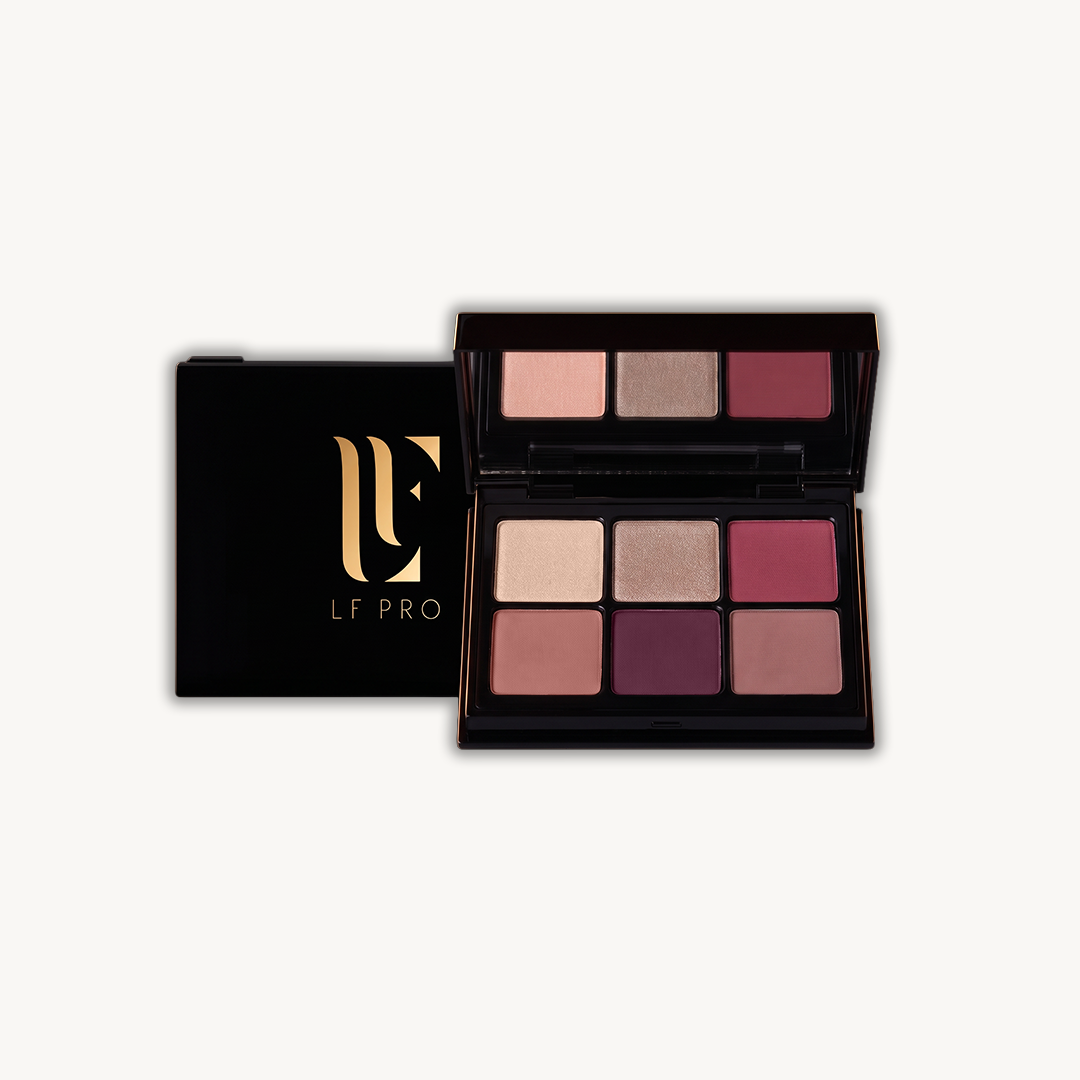
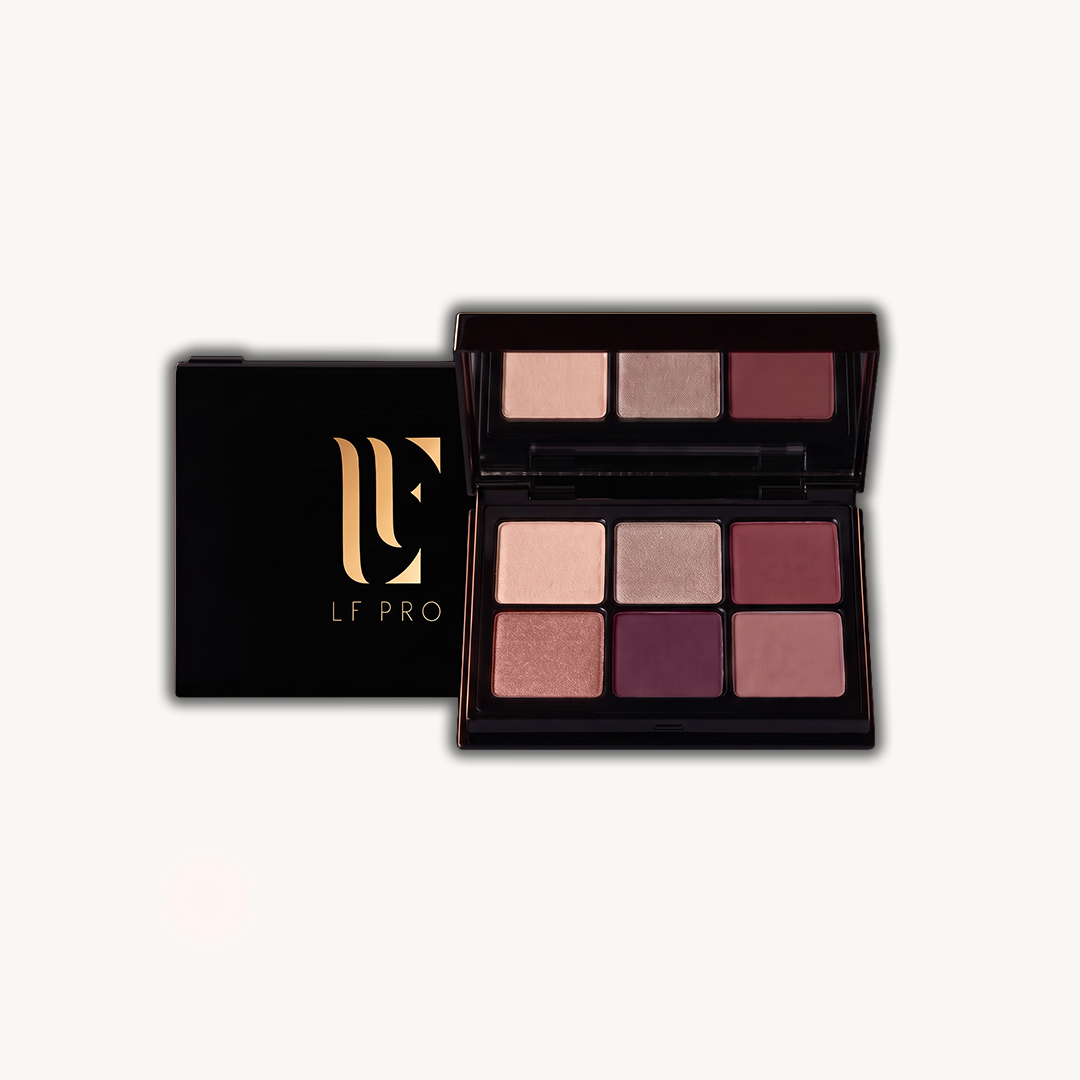
PETAL: foto oficial com cores corrigidas pelo cliente + hex medidos
Claude-Session: https://claude.ai/code/session_011L6hTTkp5HqesYAfhWafSy

Changed region(s): [[0.1528, 0.275, 0.825, 0.7028], [0.3056, 0.5194, 0.3972, 0.5806], [0.3667, 0.3972, 0.4278, 0.4278]]

diff --git a/products/paleta-sombras/paleta-de-sombras-petal.md b/products/paleta-sombras/paleta-de-sombras-petal.md
@@ -24,16 +24,16 @@ temperatura: rosada
 
 Ordem confirmada pelo cliente na foto real (`petal-foto-real-orientacao.jpg`). A ref de IA anterior (`petal-cor-ref-ia.png`) está **de cabeça para baixo**: usar só para cor, nunca para a posição dos pans. Hex medidos na ref de IA.
 
-| Posição | Tom | Acabamento | Hex aprox |
+| Posição | Tom | Acabamento | Hex (foto oficial corrigida, 08/10) |
 |---------|-----|------------|-----------|
-| Topo esq. | rosa claro pêssego | **cintilante sutil** | `#EED1BE` |
-| Topo meio | taupe champagne | **cintilante sutil** | `#B49483` |
-| Topo dir. | rosa coral / salmão (não pink) | matte | `#D88080` |
-| Base esq. | rosa terracota suave | **cintilante sutil** | `#B6827B` |
-| Base meio | ameixa/plum profundo | matte | `#603748` |
-| Base dir. | rosa antigo (dusty rose) | matte | `#A77E7B` |
+| Topo esq. | rosa claro pêssego | **cintilante sutil** | `#E5B6A6` |
+| Topo meio | taupe champagne | **cintilante sutil** | `#B08A82` |
+| Topo dir. | rosa amora / berry rosado fechado | matte | `#803D45` |
+| Base esq. | rosa terracota | **cintilante sutil** | `#B5756F` |
+| Base meio | ameixa/plum profundo | matte | `#5E2D40` |
+| Base dir. | rosa antigo (dusty rose) | matte | `#A46869` |
 
-- Topo dir. corrigido (08/10/2026): amostra de fábrica `petal-amostra-framboesa-real.webp` mede `#DB8181`, um rosa coral quente. **Não é pink, magenta nem framboesa.**
+- **Fonte de verdade de cor: `assets/products/paleta-de-sombras-petal/01.png`** (foto oficial atualizada pelo cliente em 08/10/2026). A leitura anterior do topo dir. como rosa coral `#D88080`, tirada de uma amostra fotografada no celular, foi descartada: o tom é um rosa amora fechado `#803D45`, sem pink vivo.
 - **3 cintilantes** (correção do cliente, 08/10/2026): pêssego claro, taupe champagne e rosa terracota. A amostra de fábrica (`petal-amostra-terracota-cintilante.webp`, `#B57F6E`) bate com o rosa terracota da foto real (`#C1846F`).
 - Cintilância = micro partículas finas, **sutis como as da Vital e da Enérgica**. Nunca glitter grosso.
 - As fotos de referência do cliente são de IA, com textura estranha, ou reais e usadas, com cor distorcida. Elas servem **só como guia de cor**. A textura vem dos packshots reais da Vital e da Enérgica.
